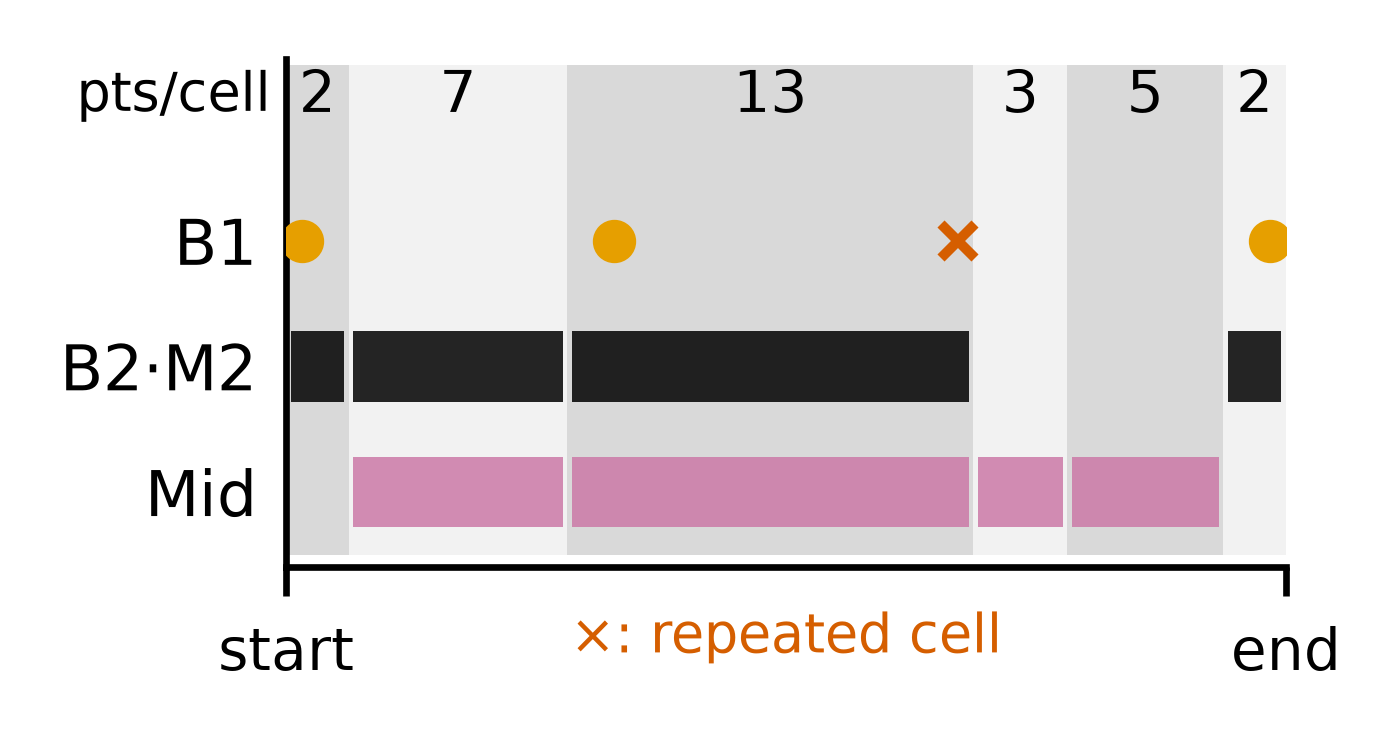
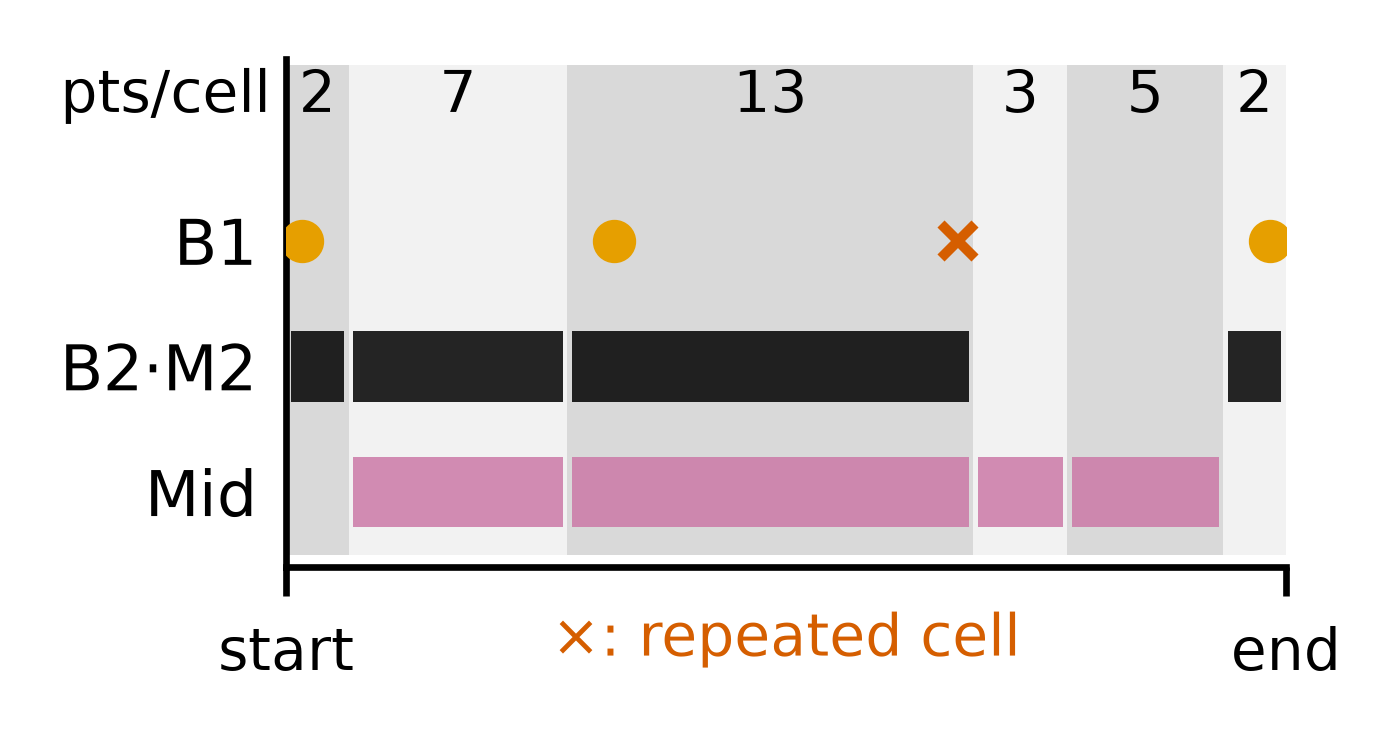
feat: 인쇄 크기 그림(F1·F10) 스크립트와 데모 패널·개념도 글자 키우기

Changed region(s): [[0.3993, 0.8038, 0.7371, 0.8965], [0.0307, 0.0927, 0.1843, 0.1546]]

diff --git a/scripts/figures/f7_demo_panel.py b/scripts/figures/f7_demo_panel.py
@@ -1,12 +1,12 @@
-"""F7 panel: the deal summary and the bid list cut out of the rider screenshot (paper-revision-v2, blind paper).
+"""F7 panel: the fare rows and the bid table cut out of the rider screenshot (paper-revision-v2, blind paper).
 
 The blind paper has one column and no room for the whole screen, and the screen header shows the service name, which
-the blind version must not. This keeps two parts of the right-hand panel, stacked: the price rows (base price to
-weather factor) and the bid table. Nothing is drawn or edited, only cut.
+the blind version must not. To keep the text readable in print (about 7 pt at 6 cm), only what the paper talks about
+is kept: the base price row, the rain and weather-factor rows, and the bid table's price, pickup ETA and driver
+columns. Pieces are cut and placed side by side or stacked; nothing is drawn or edited.
 
 The boxes are fractions of the screenshot, taken from F7_demo.png (rider window 1280 x 800 at 2x, 2560 x 1600,
-Chrome device toolbar, captured 2026-10-16 in rain);
-a new capture must use the same window size.
+Chrome device toolbar, captured 2026-10-16 in rain); a new capture must use the same window size.
 
     python scripts/figures/f7_demo_panel.py [--src results/figures/F7_demo.png]   # -> F7_demo_panel.png
 """
@@ -20,11 +20,15 @@ ROOT = os.path.normpath(os.path.join(HERE, "..", ".."))
 SRC = os.path.join(ROOT, "results", "figures", "F7_demo.png")
 OUT = os.path.join(ROOT, "results", "figures", "F7_demo_panel.png")
 
-ASPECT = 2560 / 1600
+W, H = 2560, 1600
+ASPECT = W / H
 # (left, top, right, bottom) as fractions of width and height
-PRICE_ROWS = (0.613, 0.374, 0.985, 0.521)   # Base price ... Weather factor
-BIDS = (0.613, 0.771, 0.985, 0.919)         # bid table header and three bids
-GAP = 0.012                                 # white space between the two parts, as a fraction of height
+BASE_ROW = (1577 / W, 598 / H, 1949 / W, 637 / H)        # "Base price"
+RAIN_ROWS = (1577 / W, 752 / H, 1949 / W, 834 / H)       # "Avg rain", "Weather factor"
+BID_PRICE_ETA = (1569 / W, 1234 / H, 1939 / W, 1471 / H)  # bid table: Price, Pickup ETA (header + 3 bids)
+BID_DRIVER = (2169 / W, 1234 / H, 2289 / W, 1471 / H)     # bid table: Driver
+BOXES = (BASE_ROW, RAIN_ROWS, BID_PRICE_ETA, BID_DRIVER)
+GAP = 16                                                  # white space between pieces, in screenshot pixels
 
 
 def box(img, frac):
@@ -32,16 +36,28 @@ def box(img, frac):
     return img.crop((round(frac[0] * w), round(frac[1] * h), round(frac[2] * w), round(frac[3] * h)))
 
 
+def stack(parts, vertical, gap):
+    if vertical:
+        size = (max(p.width for p in parts), sum(p.height for p in parts) + gap * (len(parts) - 1))
+    else:
+        size = (sum(p.width for p in parts) + gap * (len(parts) - 1), max(p.height for p in parts))
+    out = Image.new("RGB", size, "white")
+    at = 0
+    for p in parts:
+        out.paste(p, (0, at) if vertical else (at, 0))
+        at += (p.height if vertical else p.width) + gap
+    return out
+
+
 def panel(img):
     w, h = img.size
     if abs(w / h - ASPECT) > 0.01:
         raise ValueError(f"screenshot is {w}x{h}; capture the rider window at 1280 x 800 (2x: 2560 x 1600)")
-    parts = [box(img.convert("RGB"), PRICE_ROWS), box(img.convert("RGB"), BIDS)]
-    gap = round(GAP * h)
-    out = Image.new("RGB", (max(p.width for p in parts), sum(p.height for p in parts) + gap), "white")
-    out.paste(parts[0], (0, 0))
-    out.paste(parts[1], (0, parts[0].height + gap))
-    return out
+    img = img.convert("RGB")
+    base, rain, price_eta, driver = (box(img, b) for b in BOXES)
+    fare = stack([base, rain], vertical=True, gap=0)
+    bids = stack([price_eta, driver], vertical=False, gap=0)          # one table: rule lines stay joined
+    return stack([fare, bids], vertical=True, gap=GAP * h // H)
 
 
 def main():

diff --git a/scripts/figures/print_sizes.py b/scripts/figures/print_sizes.py
@@ -1,0 +1,39 @@
+"""Print-size copies of the paper's plots, so axis text stays at about 7-8 pt on the page.
+
+The frozen figures (make_all.py, MANIFEST.txt) are drawn 8.5 cm wide and the papers shrink them to 5.8-6.6 cm,
+which takes 7 pt tick labels down to about 5 pt. This redraws the same plots, from the same CSVs and with the same
+code, at the width they are printed, into results/figures/print/. make_all.py and its MANIFEST are not touched.
+
+    python scripts/figures/print_sizes.py    # -> results/figures/print/F1_curve.png, F1_kabs.png, F10_offer.png
+"""
+import os
+import sys
+
+HERE = os.path.dirname(os.path.abspath(__file__))
+ROOT = os.path.normpath(os.path.join(HERE, "..", ".."))
+sys.path.insert(0, HERE)
+
+import f1_curve  # noqa: E402
+import f10_offer  # noqa: E402
+import style  # noqa: E402
+
+RESULTS = os.path.join(ROOT, "results")
+OUT = os.path.join(RESULTS, "figures", "print")
+# (module, figure size in inches = printed size): one panel 6.6 cm, two panels 7.4 cm.
+JOBS = [(f1_curve, (2.6, 1.85)), (f10_offer, (2.9, 1.9))]   # F9 crowds at this width: the original is used
+
+
+def main():
+    os.makedirs(OUT, exist_ok=True)
+    saved = style.SINGLE
+    try:
+        for module, size in JOBS:
+            style.SINGLE = size
+            for path in module.make(RESULTS, OUT):
+                print(path)
+    finally:
+        style.SINGLE = saved
+
+
+if __name__ == "__main__":
+    main()

diff --git a/scripts/figures/test_f7_demo_panel.py b/scripts/figures/test_f7_demo_panel.py
@@ -15,15 +15,18 @@ import f7_demo_panel as fp  # noqa: E402
 
 def test_boxes_stay_below_the_header_and_inside_the_screen():
     header = 80 / 1600                      # the brand bar is the top 80 px of the 2x capture
-    for b in (fp.PRICE_ROWS, fp.BIDS):
+    for b in fp.BOXES:
         assert header < b[1] < b[3] <= 1 and 0 <= b[0] < b[2] <= 1
 
 
-def test_panel_stacks_both_parts_with_a_gap():
+def test_panel_layout():
     out = fp.panel(Image.new("RGB", (2560, 1600), "red"))
-    h = lambda b: round(b[3] * 1600) - round(b[1] * 1600)  # noqa: E731
-    assert out.height == h(fp.PRICE_ROWS) + h(fp.BIDS) + round(fp.GAP * 1600)
-    assert out.width == round(fp.PRICE_ROWS[2] * 2560) - round(fp.PRICE_ROWS[0] * 2560)
+    size = {name: (round(b[2] * 2560) - round(b[0] * 2560), round(b[3] * 1600) - round(b[1] * 1600))
+            for name, b in zip(("base", "rain", "price_eta", "driver"), fp.BOXES)}
+    fare_h = size["base"][1] + size["rain"][1]
+    bids_w = size["price_eta"][0] + size["driver"][0]
+    assert out.height == fare_h + fp.GAP + max(size["price_eta"][1], size["driver"][1])
+    assert out.width == max(size["base"][0], bids_w)
 
 
 def test_wrong_window_size_is_refused():

diff --git a/scripts/figures/f11_schematic.py b/scripts/figures/f11_schematic.py
@@ -85,7 +85,7 @@ def draw(path, cell_points=CELL_POINTS, k=K):
         shade = "#d9d9d9" if c % 2 == 0 else "#f2f2f2"
         ax.add_patch(Rectangle((s0, -0.5), w, n + 0.9, facecolor=shade, linewidth=0, zorder=0))
         ax.text(s0 + w / 2, n + 0.15, str(w), ha="center", va="center", fontsize=7)
-    ax.text(-0.5, n + 0.15, "pts/cell", ha="right", va="center", fontsize=6.5)
+    ax.text(-0.5, n + 0.15, "pts/cell", ha="right", va="center", fontsize=7)
 
     for i, (label, key, chosen, note) in enumerate(rows):
         y = n - 1 - i
@@ -109,7 +109,7 @@ def draw(path, cell_points=CELL_POINTS, k=K):
     ax.tick_params(axis="y", length=0)
     for side in ("top", "right"):
         ax.spines[side].set_visible(False)
-    ax.text(P / 2, -0.95, "×: repeated cell", ha="center", va="top", fontsize=6.5, color="#D55E00")
+    ax.text(P / 2, -0.95, "×: repeated cell", ha="center", va="top", fontsize=7, color="#D55E00")
     return style.save(fig, path)
 
 
